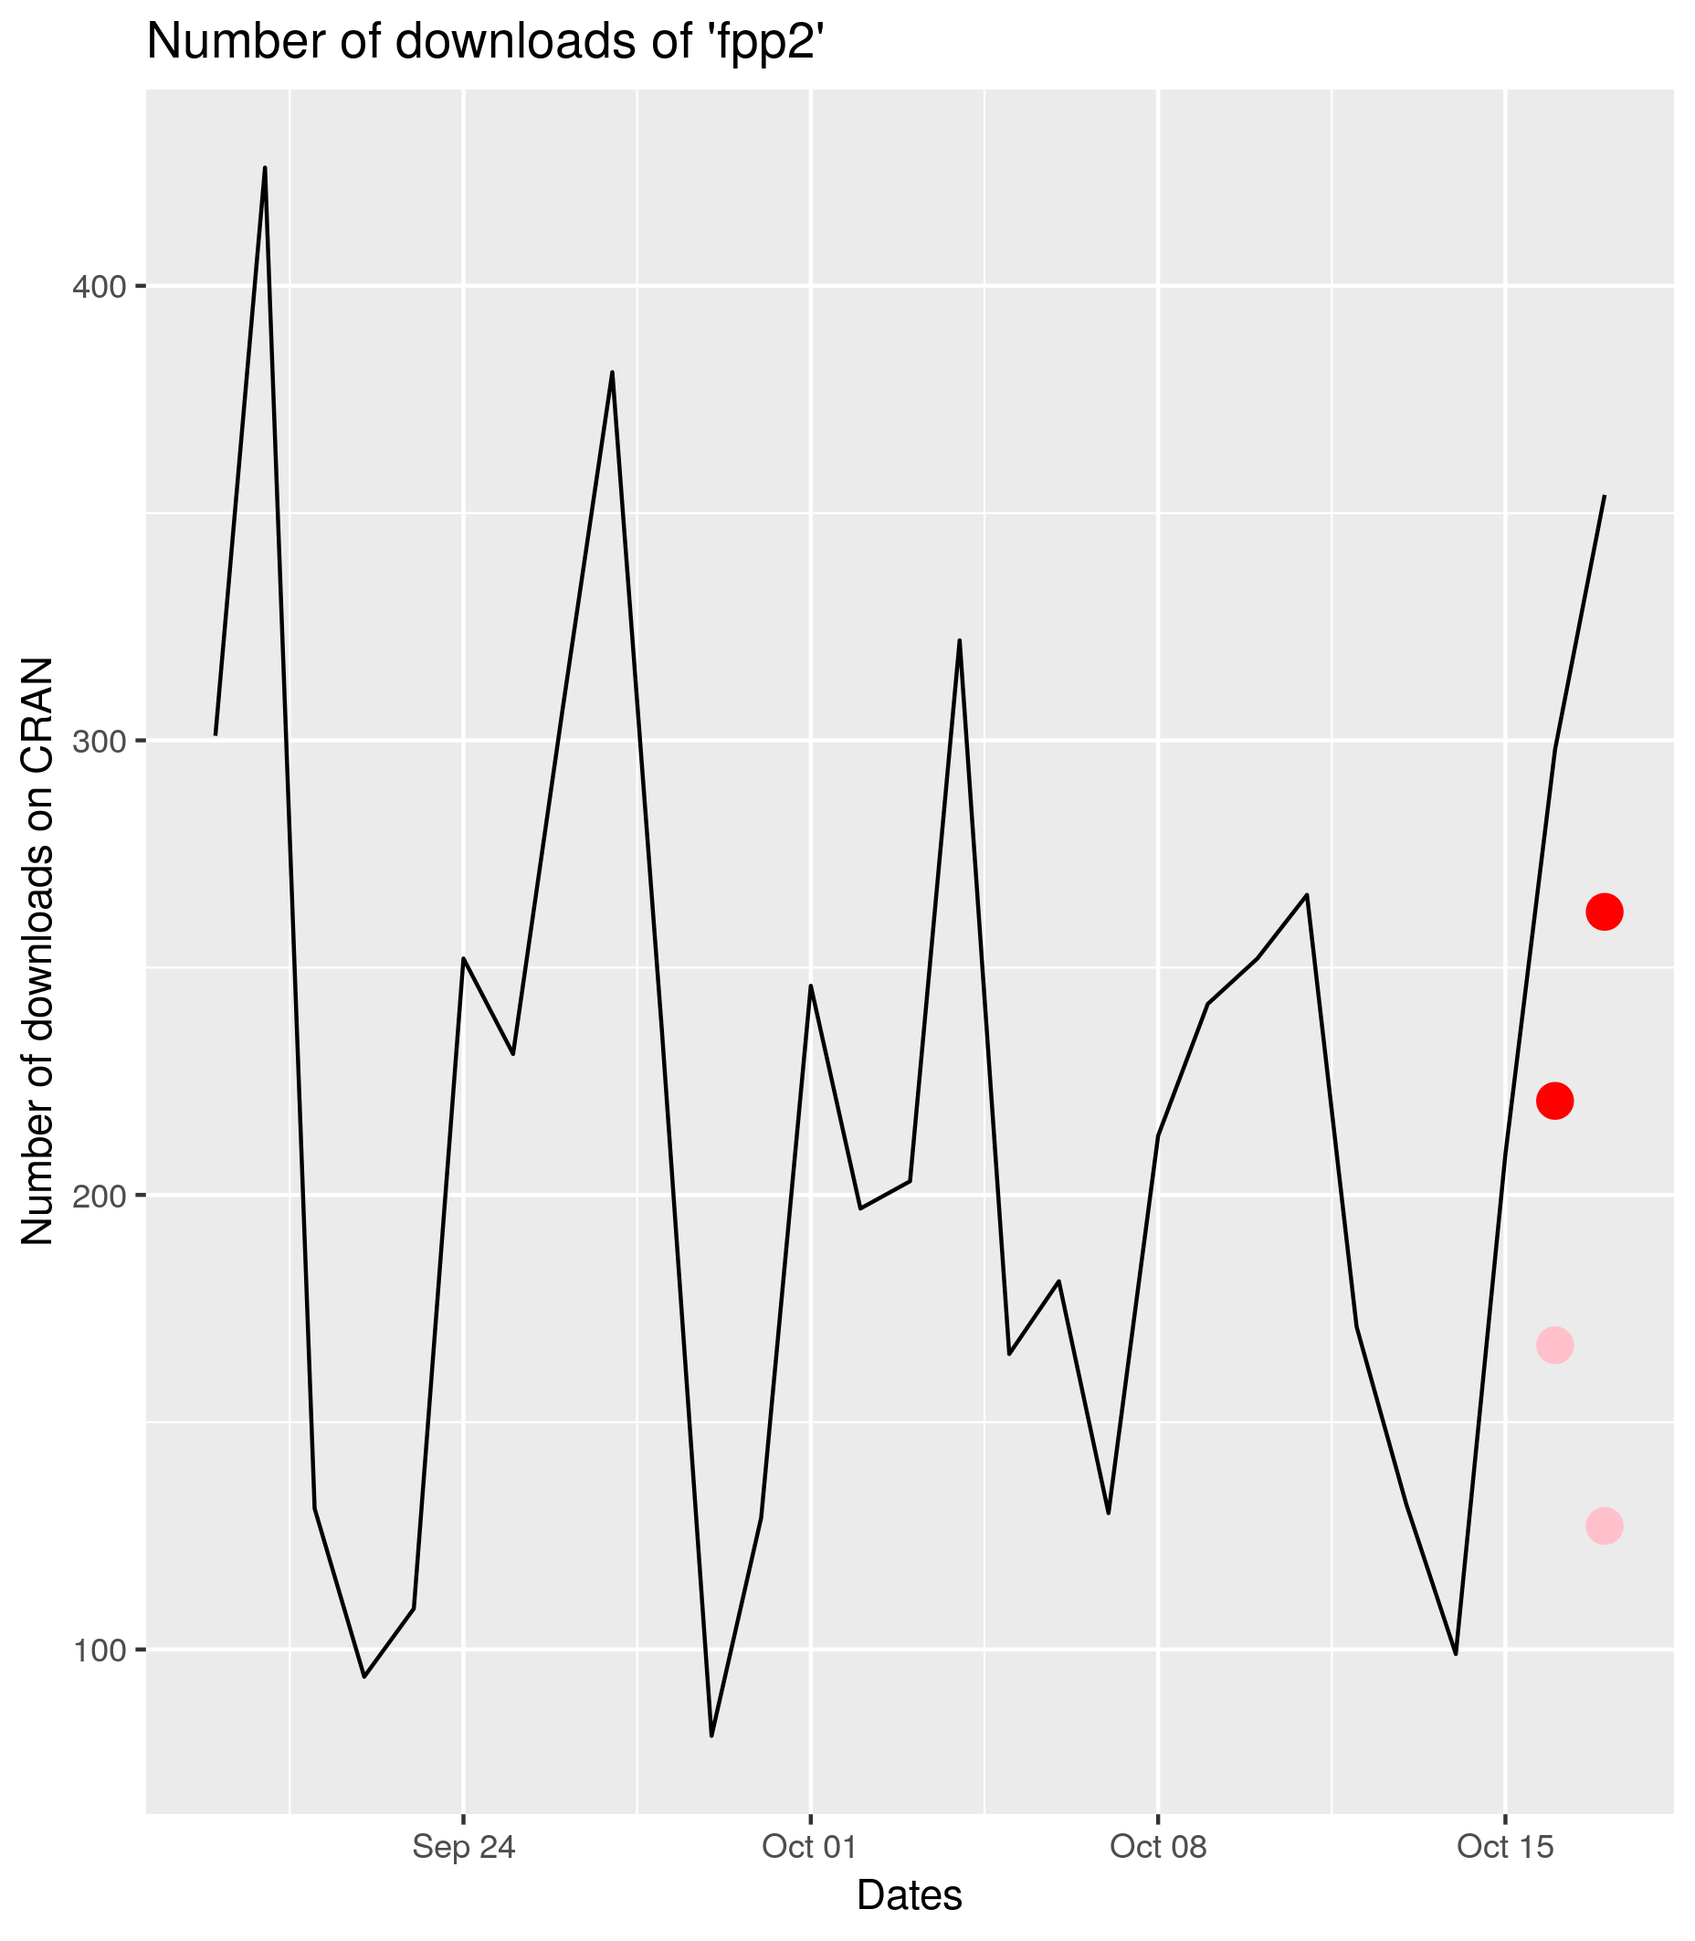
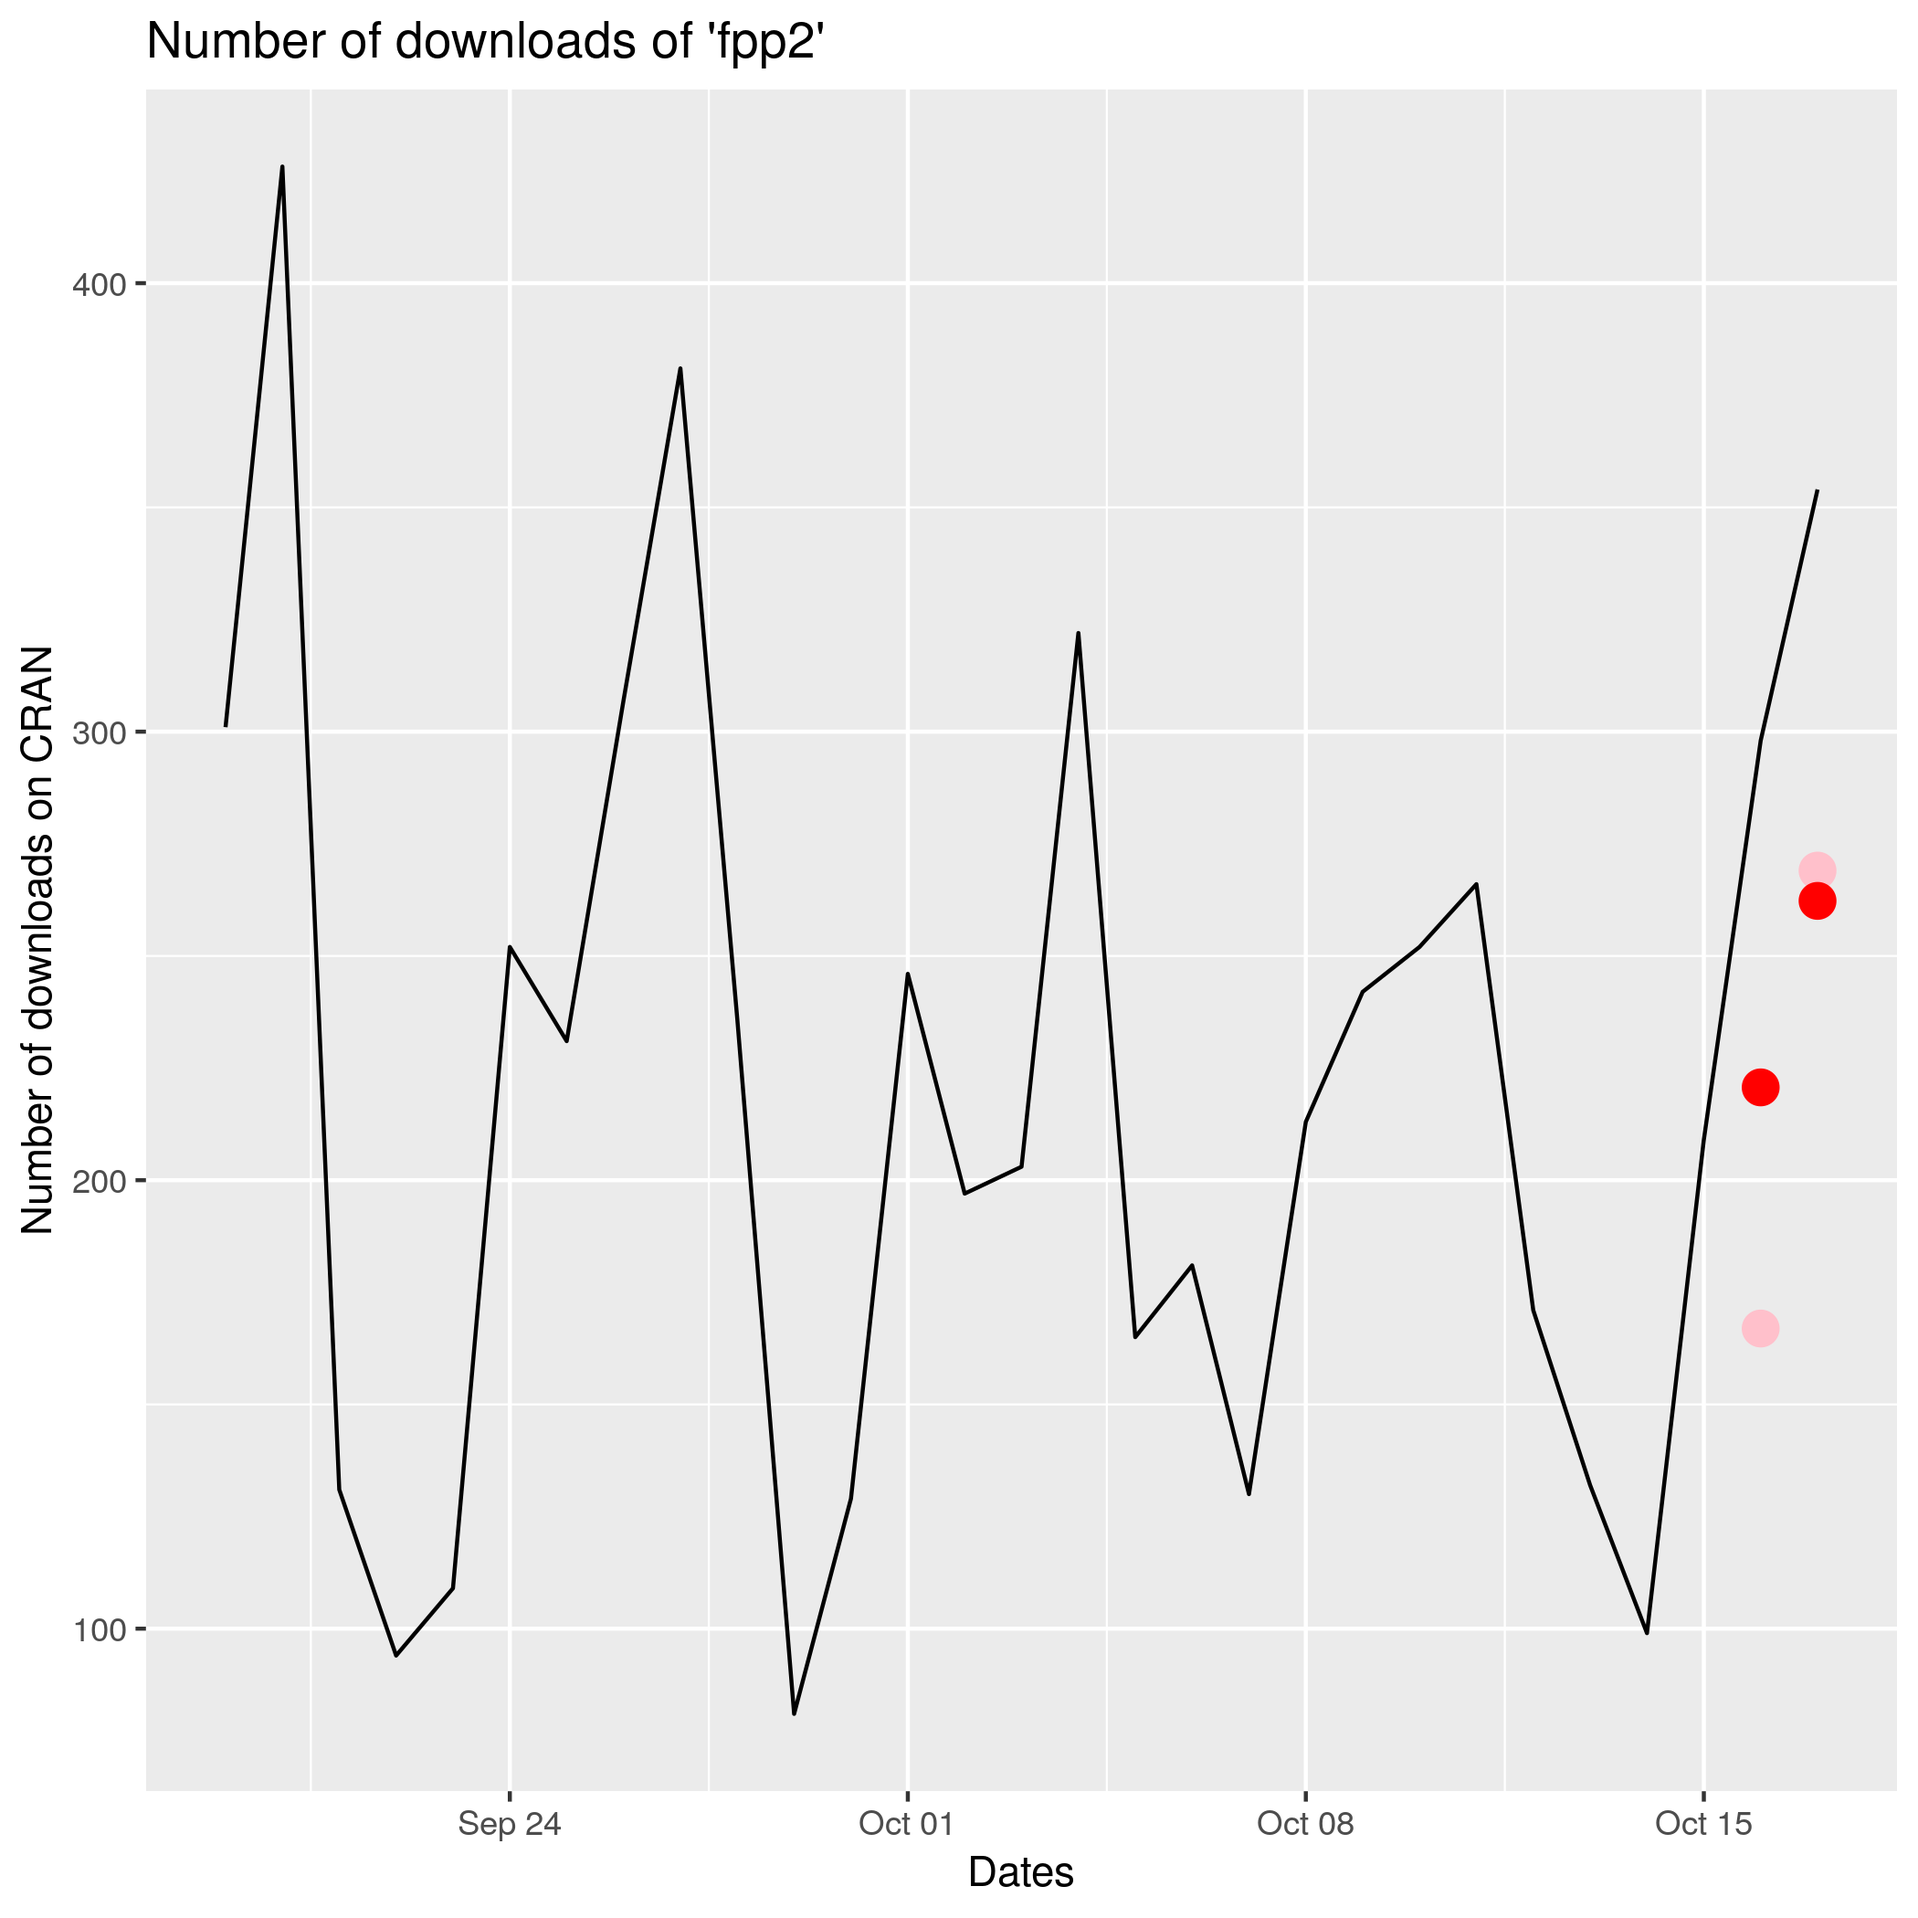
updated forecast

diff --git a/content/case-studies/r-package.md b/content/case-studies/r-package.md
@@ -88,7 +88,7 @@ lecture.
 
 ### results (update 18.10.2018)
 
-<img src="https://raw.githubusercontent.com/SMAC-Group/fc2018_website/master/data/fpp2_3.png" alt="fpp22" width="400px"/> 
+<img src="https://raw.githubusercontent.com/SMAC-Group/fc2018_website/master/data/fpp2_2.png" alt="fpp22" width="400px"/> 
 
 Date | <span style="color:red">Max</span> | <span style="color:pink">Lumia</span>
 --- | --- | ---
